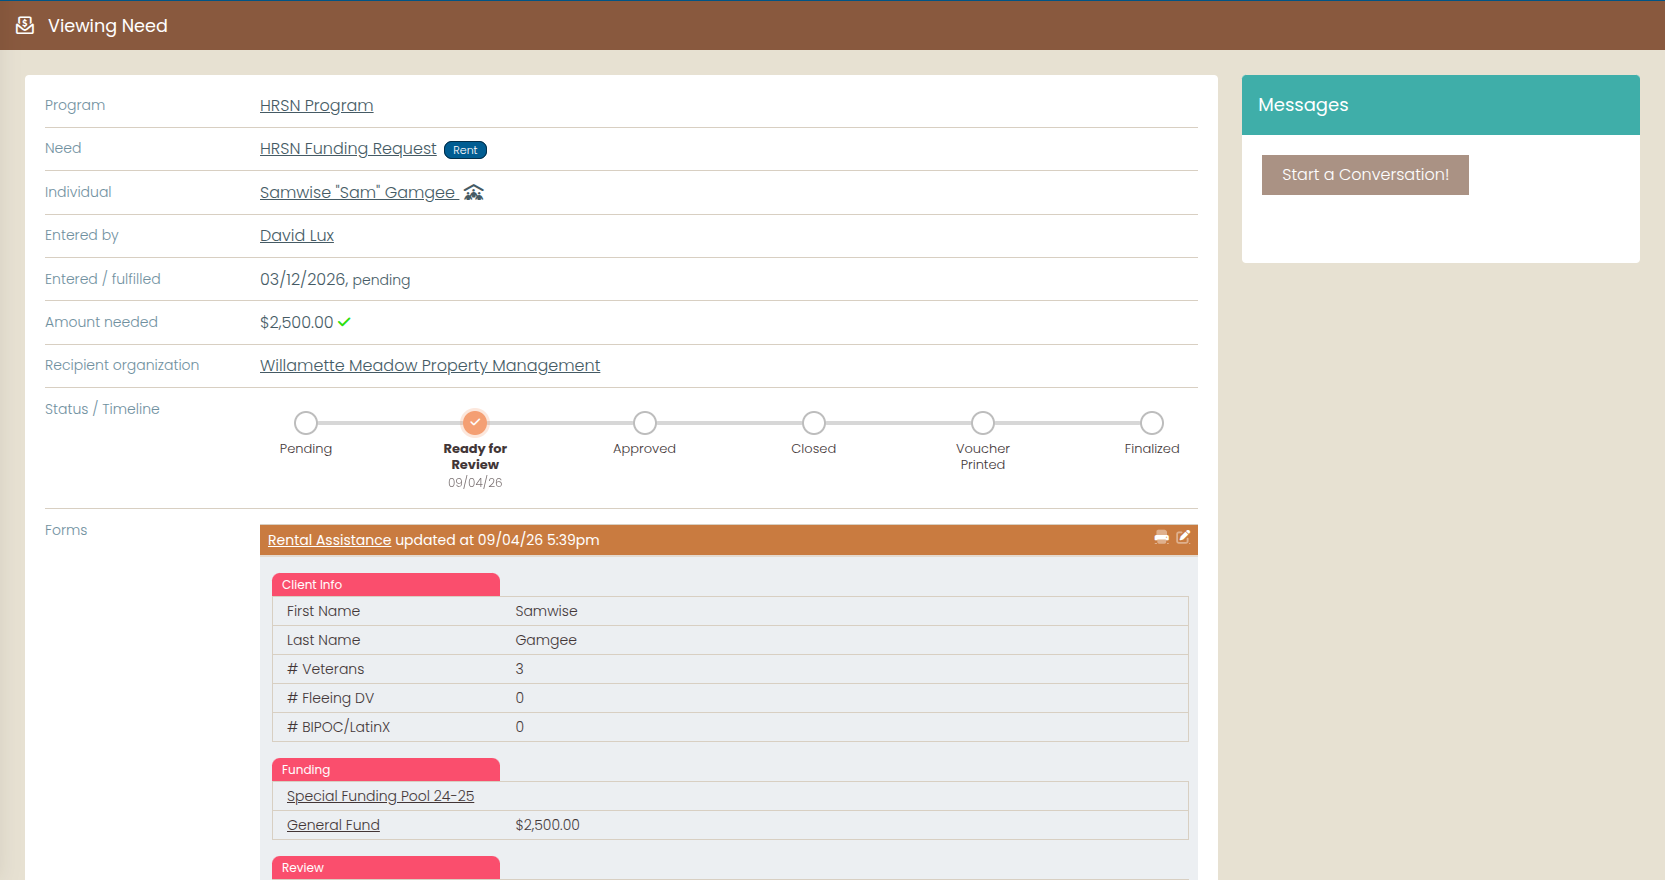
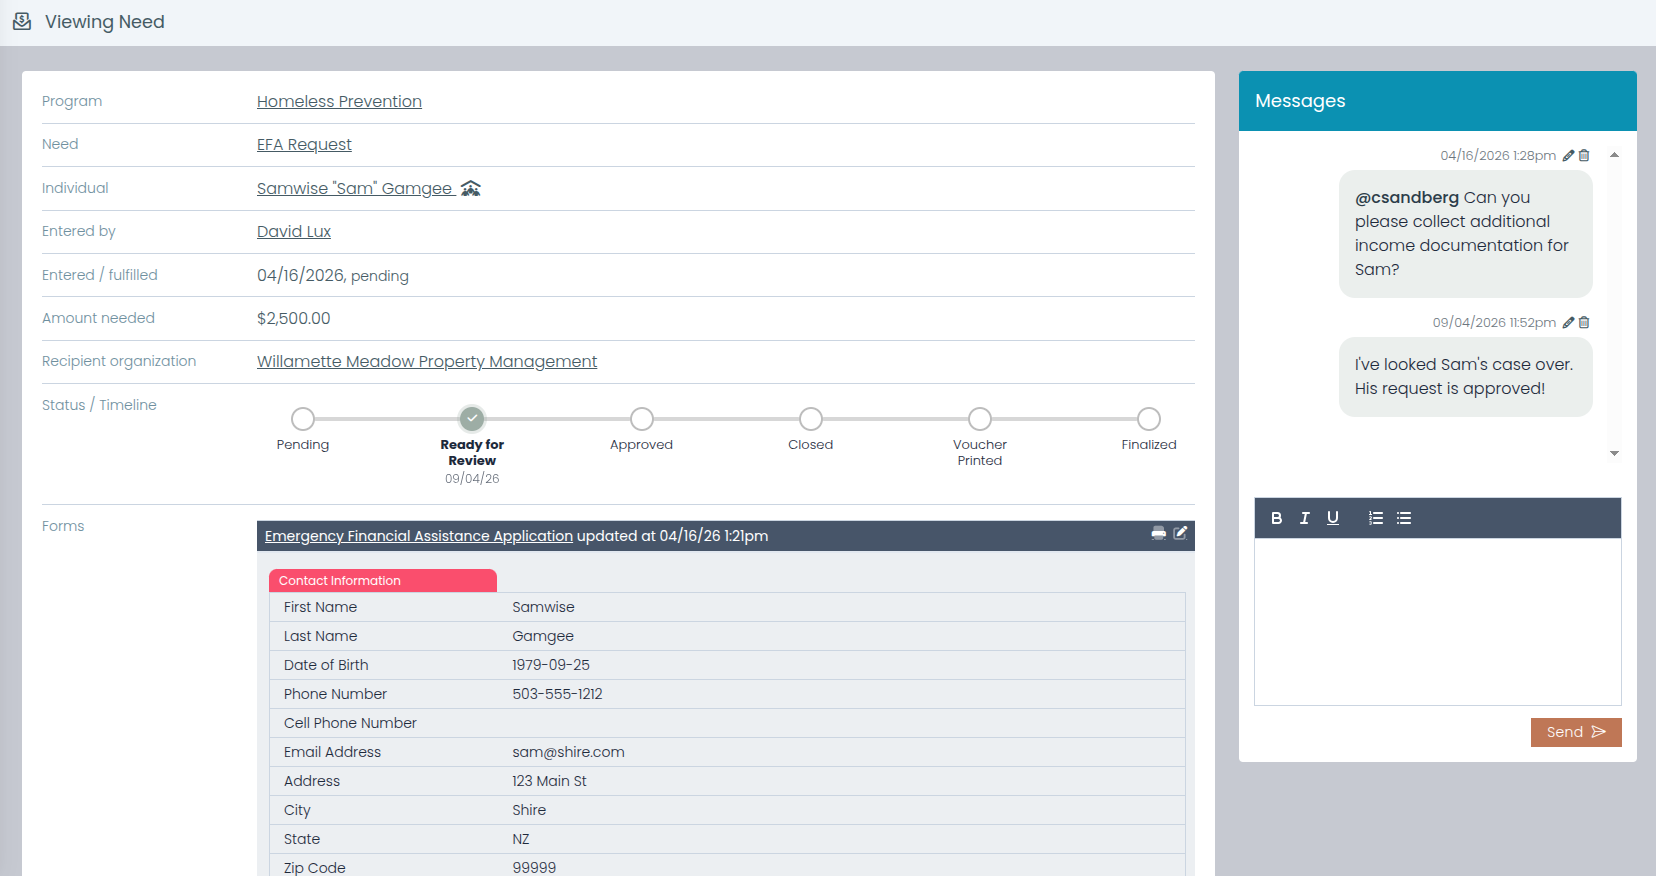
Need Navigator: emergency assistance screenshot now shows the request's message thread
Replaces the need view with Dave's efa2 capture: same request and status
timeline, with the Messages panel populated so the right side of the
frame is no longer empty. Caption and alt text mention the thread.

diff --git a/resources/sites/neednavigator/pages/features/emergency-assistance.blade.php b/resources/sites/neednavigator/pages/features/emergency-assistance.blade.php
@@ -74,13 +74,13 @@
     {{-- ================= Voucher UI representation ================= --}}
     <section class="section section--surface">
         <div class="container">
-            {{-- IMAGE SLOT: emergency-assistance-voucher | filled 2026-09-04 with a real screenshot: img/screens/need-status-timeline (source in /home/ubuntu/sitehub-image-sources/neednavigator) --}}
+            {{-- IMAGE SLOT: emergency-assistance-voucher | filled 2026-09-04 with a real screenshot: img/screens/need-status-timeline, from efa2 (source in /home/ubuntu/sitehub-image-sources/neednavigator) --}}
             <figure style="margin:0">
                 <div class="uiframe">
                     <div class="uiframe-bar"><i></i><i></i><i></i><span>Viewing a need</span></div>
-                    @include('site::partials.screen', ['name' => 'need-status-timeline', 'alt' => 'An assistance request: program, need type, the person, who entered it, amount, recipient organization, a status timeline with Ready for Review reached, and the rental assistance form and funding allocation below', 'width' => 1665, 'height' => 880])
+                    @include('site::partials.screen', ['name' => 'need-status-timeline', 'alt' => 'An assistance request: program, need type, the person, who entered it, amount, recipient organization, a status timeline with Ready for Review reached, the emergency financial assistance form below, and a Messages thread on the right where a colleague asks for income documentation and later reports the request approved', 'width' => 1656, 'height' => 876])
                 </div>
-                <figcaption class="ui-caption">A live assistance request on a test instance: the program and resource, the amount, the recipient organization, the status timeline with the date each step was reached, and the request&rsquo;s own form and funding-pool allocation directly below it.</figcaption>
+                <figcaption class="ui-caption">A live assistance request on a test instance: the program and resource, the amount, the recipient organization, the status timeline with the date each step was reached, the request&rsquo;s own form directly below it, and the message thread that lives on the request, where a colleague asks for income documentation and comes back with the answer.</figcaption>
             </figure>
         </div>
     </section>

diff --git a/resources/sites/neednavigator/docs/image-manifest.md b/resources/sites/neednavigator/docs/image-manifest.md
@@ -15,7 +15,7 @@ Every image slot on the site is listed here. Placeholders are inline SVG / CSS c
 | 9 | `documents-inbox-triage` | /features/documents — first section after the hero (section--surface), inside .uiframe figure | Stylized HTML/CSS recreation of the Document Inbox triage screen: queue of incoming scans (Scanner/SFTP source tags) on the left, document preview plus Client/Type/Folder/Attach-to filing fields and File/Skip buttons on the right | Real screenshot of the Document Inbox triage screen, light theme, landscape — the queue of incoming scans on the left, one file previewed on the right with its client, document type, and folder fields filled in |
 | 10 | `households-panel` | /features/households-care-team — UI representation section (.section--surface directly below the hero) | Stylized HTML recreation of the household panel: four member chips with a head-of-household badge, the member-to-member relationship matrix with one outside-household relationship (grandparent), and the address-change sync prompt with member checkboxes. | Real screenshot of a household record, light theme, landscape — member list with the head-of-household badge visible, the relationship matrix (including at least one outside-household relationship), and the address-change sync prompt offering to copy address/phone/housing status to selected members. Test data only, no real client names. |
 | 11 | `income-eligibility-verdict` | /features/income-eligibility — UI representation section (section--surface, directly below the hero) | Stylized HTML recreation of an eligibility check: program limit header (2026, 200% of FPL, household of 4, Marion County), per-member income rows tagged Verified / Self-reported / Not counted (minor income off for the program), verified-annualized-income meter against the limit, and an under-the-limit eligible badge | Real screenshot of a program eligibility check, light theme, landscape — household income compared to a program's income limit, with verified and unverified amounts distinguishable and the eligible verdict visible |
-| 12 | `emergency-assistance-voucher` | /features/emergency-assistance — UI-representation section directly below the hero (section--surface) | ✅ **Filled 2026-09-04** with a real screenshot: `img/screens/need-status-timeline` (test data; sources outside the repo at `/home/ubuntu/sitehub-image-sources/neednavigator/`). Was: Stylized HTML/CSS recreation of a printable assistance voucher in a .uiframe browser frame: request details (resource, amount, payee), eligibility block (household size, recent annualized income, program maximum, under-limit verdict), and a two-pool funding split reconciled to the request amount | Real screenshot of the printable assistance request/voucher, light theme — request details, the eligibility math (household size, recent income vs. program maximum with the under/over-limit verdict), and a split allocation across two funding pools all visible |
+| 12 | `emergency-assistance-voucher` | /features/emergency-assistance — UI-representation section directly below the hero (section--surface) | ✅ **Filled 2026-09-04** with a real screenshot: `img/screens/need-status-timeline` (from efa2, with the Messages thread; test data; sources outside the repo at `/home/ubuntu/sitehub-image-sources/neednavigator/`). Was: Stylized HTML/CSS recreation of a printable assistance voucher in a .uiframe browser frame: request details (resource, amount, payee), eligibility block (household size, recent annualized income, program maximum, under-limit verdict), and a two-pool funding split reconciled to the request amount | Real screenshot of the printable assistance request/voucher, light theme — request details, the eligibility math (household size, recent income vs. program maximum with the under/over-limit verdict), and a split allocation across two funding pools all visible |
 | 13 | `casework-note-thread` | /features/casework — first section below the hero (section--surface), inside a .uiframe figure | ✅ **Filled 2026-09-04** with a real screenshot: `img/screens/visit-record` (test data; sources outside the repo at `/home/ubuntu/sitehub-image-sources/neednavigator/`). Was: Stylized HTML/CSS recreation of a case-note thread: visibility chip (Team · Family Support), read-tracking chip (Read by 2 of 3), an @mention to a supervisor, a manager reply, and an undelivered note showing the undo-window countdown (Delivers in 4:32 · Undo) | Real screenshot of a case note with a reply, light theme — visibility setting, read tracking, an @mention, and the undo-window countdown visible on an undelivered note |
 | 14 | `billing-batch` | /features/billing — UI representation section (section--surface, directly below the hero) | Stylized HTML recreation of a billing batch table in a .uiframe browser frame: five records showing minutes-to-units conversion under the 8-minute rule (23→2, 15→1, 40→3, 52→3), one record excluded for insurance coverage dates with a warning flag, carrier stamped per line, and a batched/units/excluded summary footer with an Export to Excel pill | Real screenshot of a generated billing batch, light theme, landscape — minutes-to-units conversion visible on several lines, at least one record excluded for insurance coverage dates, and per client/code/date totals with the carrier stamped |
 | 15 | `programs-smart-button-composer` | /features/programs-automation — first section after the hero (section--surface), inside the .uiframe figure | Stylized HTML/CSS recreation of the Smart Button composer: three-step action sequence (visit, need, referral) with pre-set value chips, a note template with template-variable tokens, and dashed 'ask at click' chips | Real screenshot of the Smart Button composer admin screen, light theme, landscape — a button with a three-step action sequence (visit, need, referral), pre-set values, a template variable in a note field, and one prompt-at-click blank visible |
